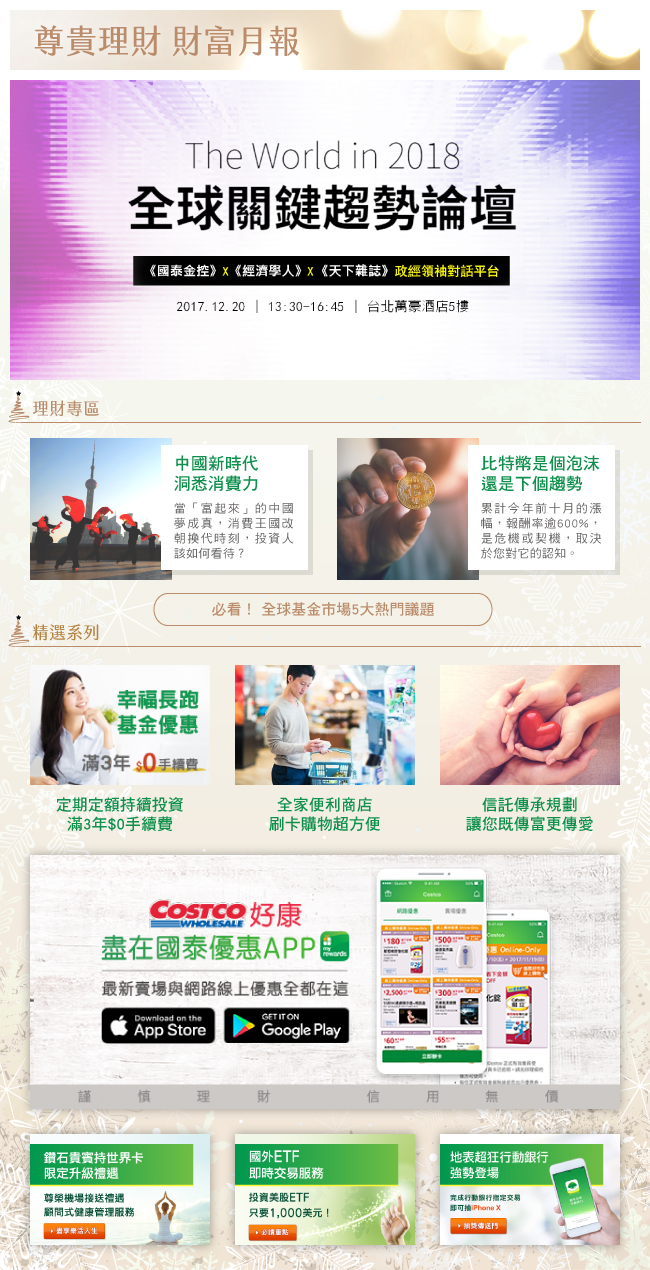
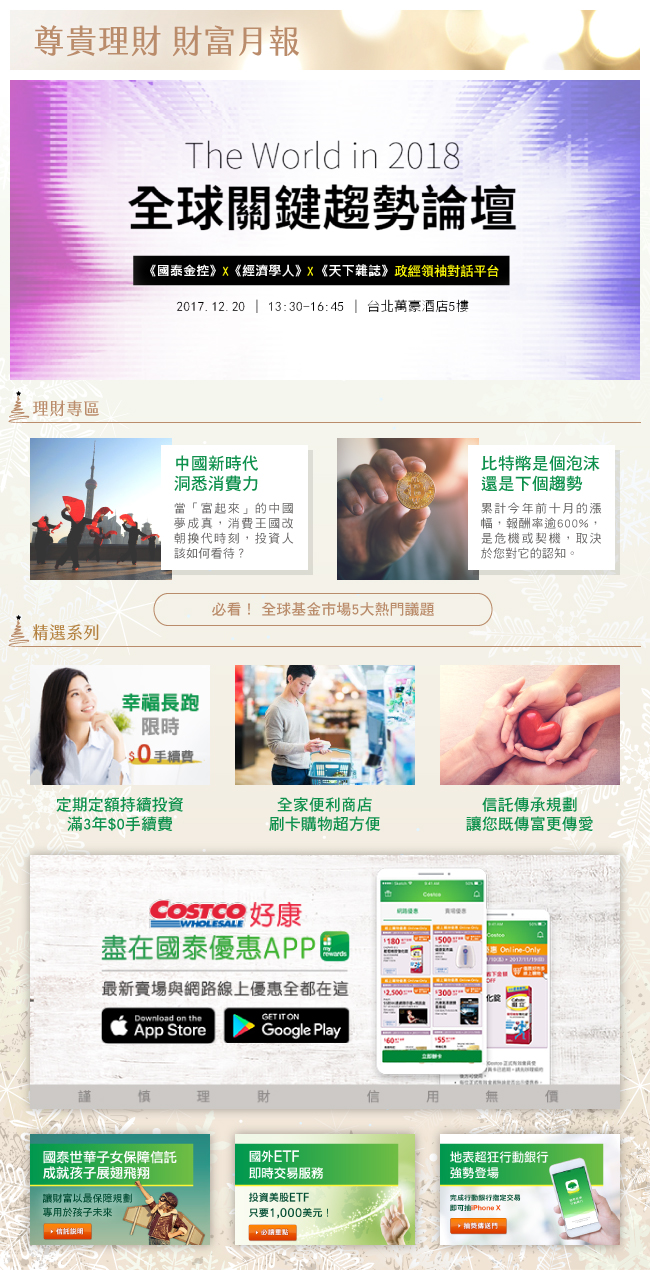
up

diff --git a/monthly-report-201712/index.html b/monthly-report-201712/index.html
@@ -76,9 +76,9 @@
 <tr>
 <td valign="middle" bgcolor="#CCCCCC" height="60"><table width="630" border="0" align="center" cellpadding="0" cellspacing="0">
               <tr>
-                <td width="490" style="color: #666666;font-size: 13px;line-height: 18px;text-align:center">本訊息由國泰世華銀行提供，若您想要更了解活動內容，<br>歡迎與我們連絡。服務專線：02-2383-1000 或 0800-818006。</td>
-                <td width="50" valign="middle" align="center"><a href="https://www.facebook.com/cathayunitedbank" target="_blank"><img src="images/FBicon.png" width="45"></a></td>
-     <td width="50" valign="middle" align="center"><a href="https://line.me/R/ti/p/%40cathaybank" target="_blank"><img src="images/LINEicon.png" width="45"></a>
+                <td width="500" style="color: #666666;font-size: 13px;line-height: 18px;text-align:center">本訊息由國泰世華銀行提供，若您想要更了解活動內容，<br>歡迎與我們連絡。服務專線：02-2383-1000 或 0800-818006。</td>
+                <td width="45" valign="middle" align="center"><a href="https://www.facebook.com/cathayunitedbank" target="_blank"><img src="images/FBicon.png" width="45"></a></td>
+     <td width="45" valign="middle" align="center"><a href="https://line.me/R/ti/p/%40cathaybank" target="_blank"><img src="images/LINEicon.png" width="45"></a>
      </td>
               </tr>
          </table>
@@ -140,12 +140,12 @@
 全球關鍵趨勢論壇">
   <area shape="rect" coords="30,439,314,581" href="https://www.cathaybk.com.tw/cathaybk/" target="_blank" alt="中國新時代，洞悉消費力">
   <area shape="rect" coords="336,438,621,581" href="https://www.cathaybk.com.tw/cathaybk/" target="_blank" alt="比特幣是個泡沫，還是下個趨">
-  <area shape="rect" coords="154,593,494,626" href="https://www.cathaybk.com.tw/cathaybk/fund/event/cathayfund/#QA?CUB_SRC=WM_EDM&CUB_CHL1=BAN&CUB_CHL2=01&MA_TK=WM042&CUB_DT=20171215" target="_blank" alt="必看！ 全球基金市場5大熱門議題">
+  <area shape="rect" coords="154,593,494,626" href="https://www.cathaybk.com.tw/cathaybk/fund/event/cathayfund/?CUB_SRC=WM_EDM&CUB_CHL1=BAN&CUB_CHL2=01&MA_TK=WM042&CUB_DT=20171215#QA" target="_blank" alt="必看！ 全球基金市場5大熱門議題">
   <area shape="rect" coords="29,665,212,834" href="https://www.cathaybk.com.tw/cathaybk/fund/event/cathayfund/?CUB_SRC=WM_EDM&CUB_CHL1=BAN&CUB_CHL2=01&MA_TK=WM042&CUB_DT=20171215#promo" target="_blank" alt="定期定額持續投資，滿3年$0手續費">
   <area shape="rect" coords="439,664,621,834" href="https://www.cathaybk.com.tw/cathaybk/" target="_blank" alt="信託傳承規劃
 ，讓您既傳富更傳愛">
   <area shape="rect" coords="30,855,621,1111" href="https://myrewards.app.link/QI9LWSZU6H?CUB_SRC=WM_EDM&CUB_CHL1=BAN&CUB_CHL2=01&MA_TK=WM042&CUB_DT=20171215" target="_blank" alt="Costco x 國泰優惠 優惠專區上線">
-  <area shape="rect" coords="28,1134,211,1247" href="https://www.cathaybk.com.tw/cathaybk/vip/event/2017/201706_3/index.html?CUB_SRC=WM_EDM&CUB_CHL1=BAN&CUB_CHL2=01&MA_TK=WM042&CUB_DT=20171215" target="_blank" alt="鑽石貴賓">
+  <area shape="rect" coords="28,1134,211,1247" href="https://www.cathaybk.com.tw/cathaybk/personal-trust/service-love.asp" target="_blank" alt="子女保障信託">
   <area shape="rect" coords="234,1134,415,1247" href="https://www.cathaybk.com.tw/Cathaybk/personal/event/2017/201706_01/index.asp?CUB_SRC=WM_EDM&CUB_CHL1=BAN&CUB_CHL2=01&MA_TK=WM042&CUB_DT=20171215" target="_blank" alt="國外ETF">
   <area shape="rect" coords="439,1133,622,1247" href="https://www.cathaybk.com.tw/cathaybk/promo/event/ebanking/product/2017/mmb/index.html?CUB_SRC=WM_EDM&CUB_CHL1=BAN&CUB_CHL2=01&MA_TK=WM042&CUB_DT=20171215" target="_blank" alt="行動銀行抽iPhone X">
 <area shape="rect" coords="235,665,416,834" href=" https://www.cathaybk.com.tw/cathaybk/personal/credit-card/discount/event/shopping/familymart/
